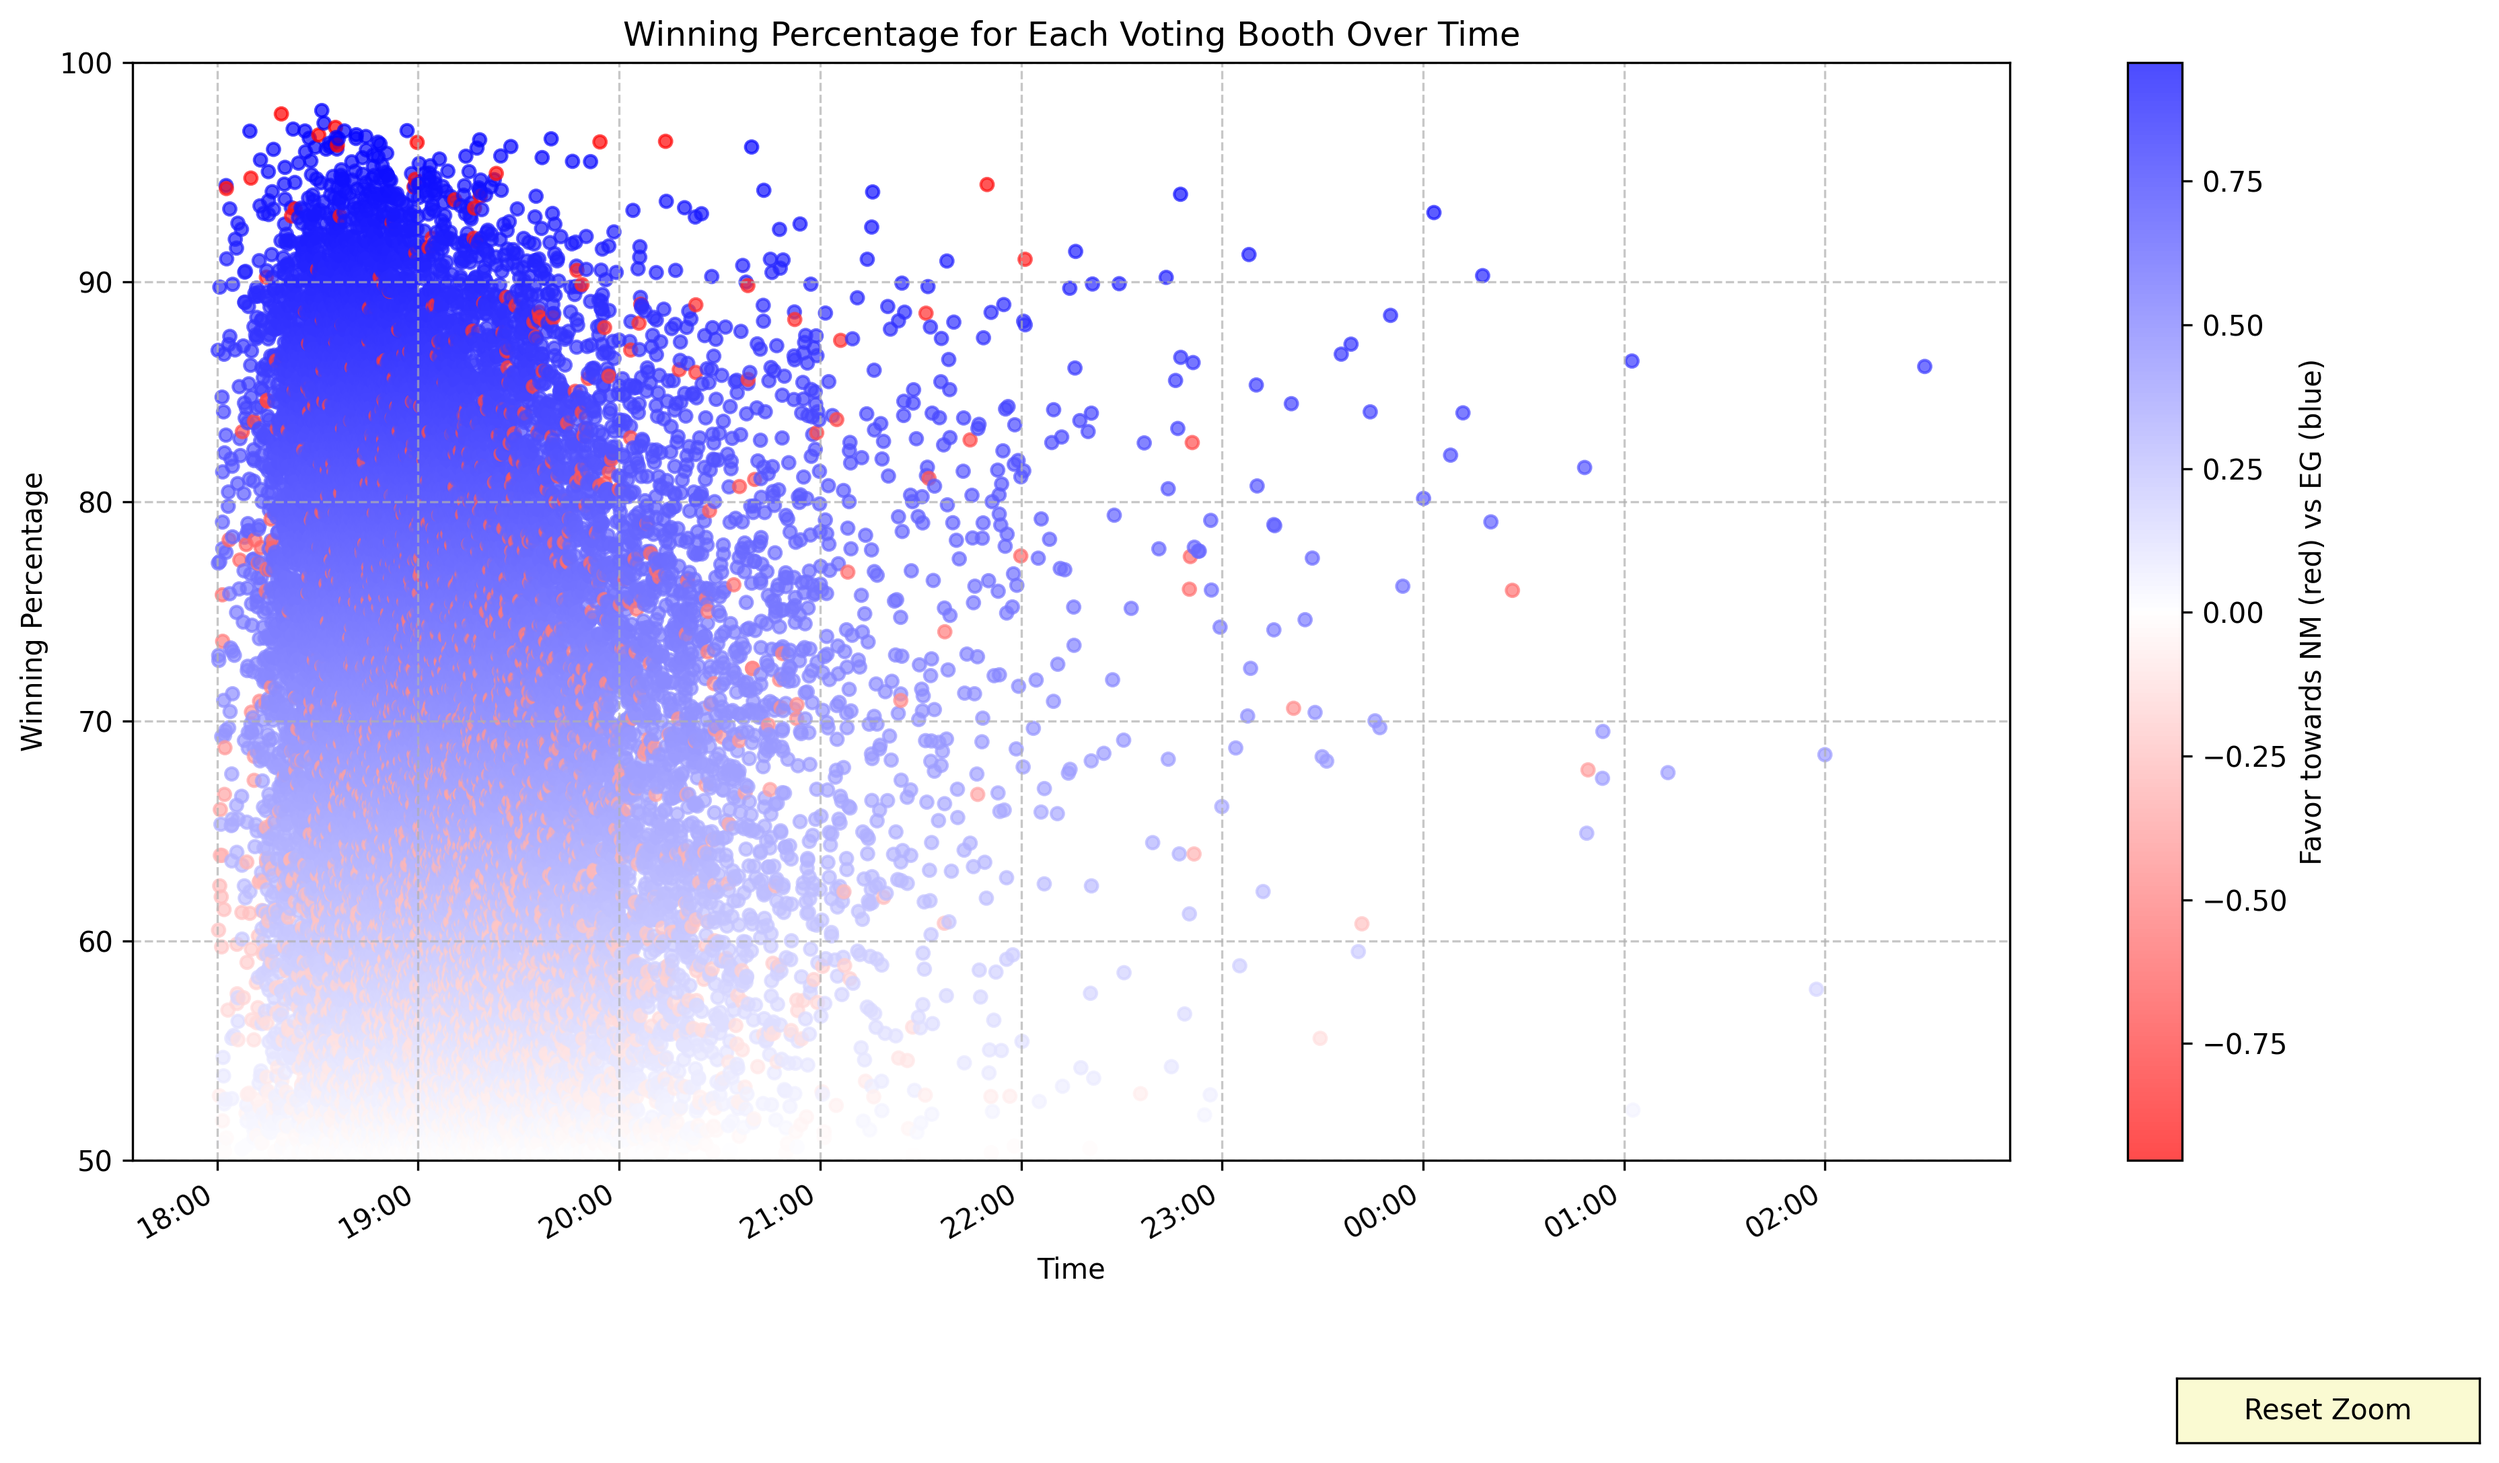
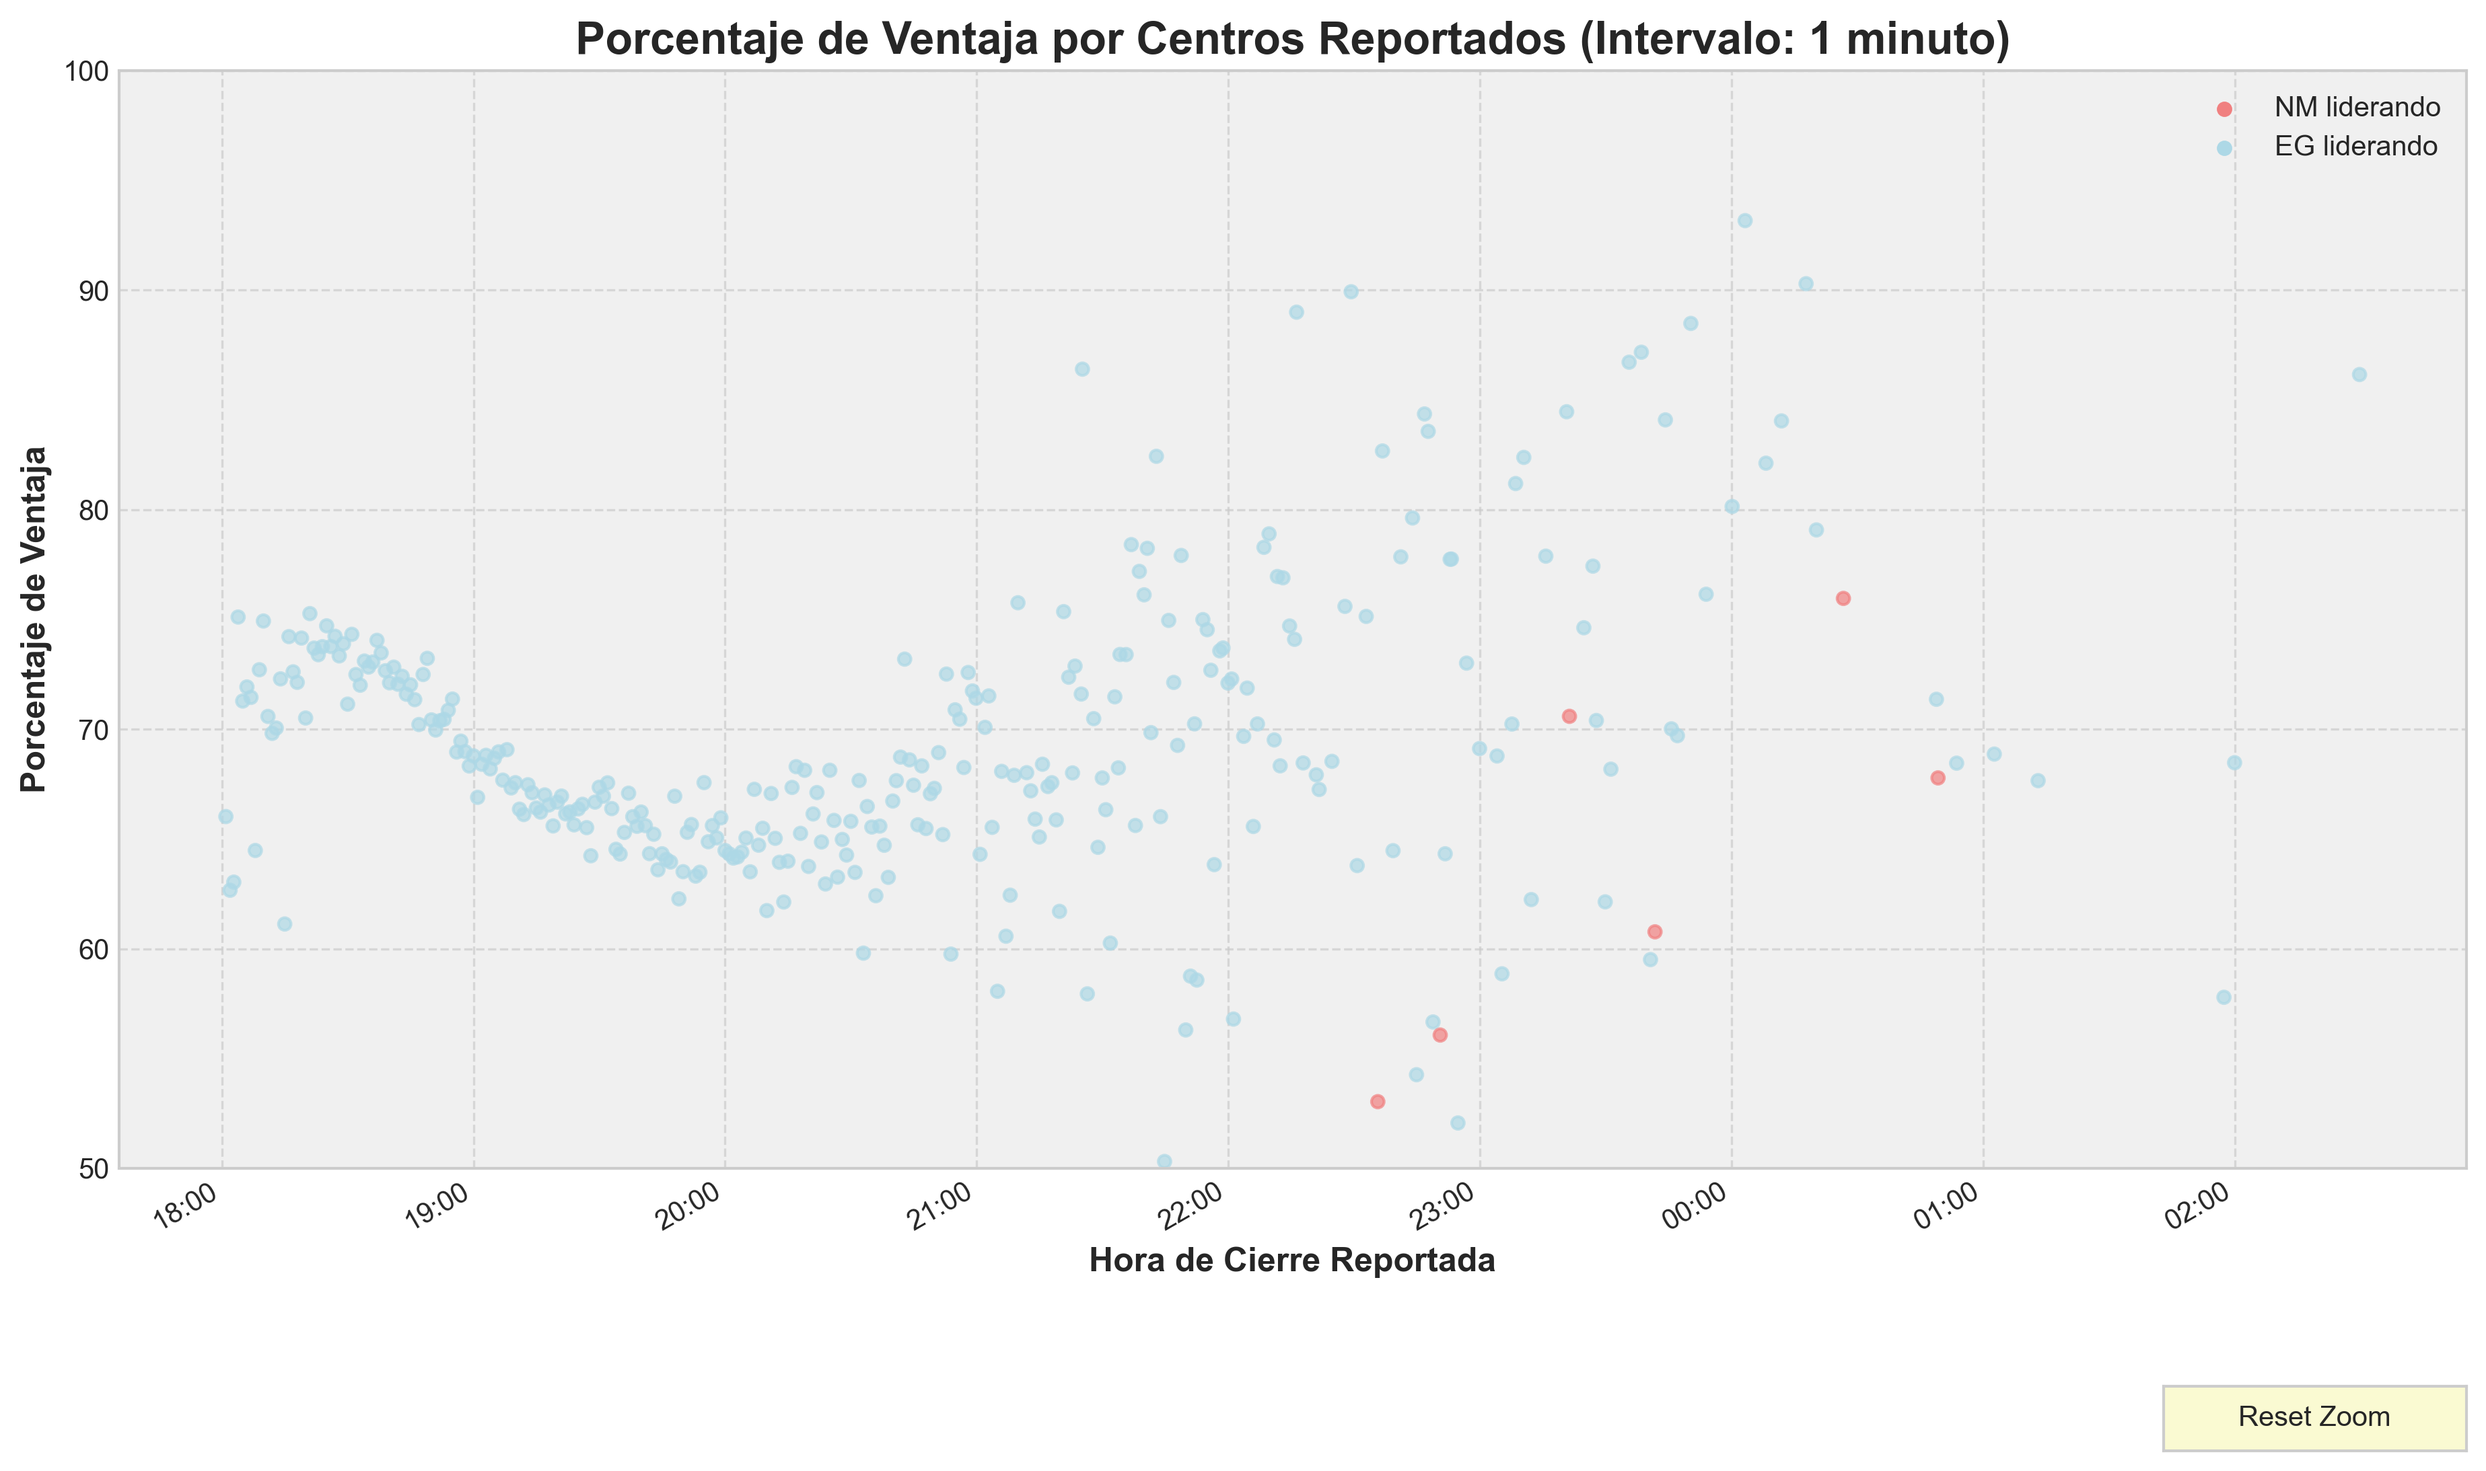
More i18n work and visual design

diff --git a/chart-time-mesa-scatter.py b/chart-time-mesa-scatter.py
@@ -3,6 +3,13 @@ import matplotlib.pyplot as plt
 from datetime import datetime, timedelta
 from matplotlib.widgets import Button
 import matplotlib.colors as mcolors
+import numpy as np
+
+# Language selector: 'en' for English, 'es' for Spanish
+language = 'es'
+
+# Set the style for a cleaner, more modern look
+plt.style.use('seaborn-v0_8-whitegrid')
 
 # Read the CSV file
 df = pd.read_csv('data/resultados-with-timestamps.csv')
@@ -26,29 +33,66 @@ def adjust_time(time_str):
 # Convert time_24 to datetime and adjust for next day if necessary
 df['adjusted_time'] = df['time_24'].apply(adjust_time)
 
-# Remove rows with NaT values
-df = df.dropna(subset=['adjusted_time'])
+# Remove rows with NaT values and sort by adjusted time
+df = df.dropna(subset=['adjusted_time']).sort_values('adjusted_time')
 
-# Sort the dataframe by adjusted time
-df = df.sort_values('adjusted_time')
+# Define the interval
+# Change interval to 10S, 15S, 1min, 1T, 5min, 15min, 1H, etc.
+# to accumulated more voting booths per interval
+interval = '1T'
+df['interval'] = df['adjusted_time'].dt.floor(interval)
 
-# Calculate total votes and winning percentage for each booth
-df['total_votes'] = df['EG'] + df['NM']
-df['winning_pct'] = df[['EG', 'NM']].max(axis=1) / df['total_votes'] * 100
-df['winner'] = df[['EG', 'NM']].idxmax(axis=1)
+# Function to convert interval to readable format (bilingual)
+def interval_to_text(interval):
+    if interval.endswith('min'):
+        value = int(interval[:-3])
+        if language == 'en':
+            return f"{value} minute" if value == 1 else f"{value} minutes"
+        else:
+            return f"{value} minuto" if value == 1 else f"{value} minutos"
+    
+    value = int(interval[:-1])
+    unit = interval[-1]
+    
+    if language == 'en':
+        if unit == 'S':
+            return f"{value} second" if value == 1 else f"{value} seconds"
+        elif unit == 'T':
+            return f"{value} minute" if value == 1 else f"{value} minutes"
+        elif unit == 'H':
+            return f"{value} hour" if value == 1 else f"{value} hours"
+    else:
+        if unit == 'S':
+            return f"{value} segundo" if value == 1 else f"{value} segundos"
+        elif unit == 'T':
+            return f"{value} minuto" if value == 1 else f"{value} minutos"
+        elif unit == 'H':
+            return f"{value} hora" if value == 1 else f"{value} horas"
+    
+    return interval
+    
+# Calculate cumulative votes for each 15-minute interval
+df['cumulative_EG'] = df.groupby('interval')['EG'].cumsum()
+df['cumulative_NM'] = df.groupby('interval')['NM'].cumsum()
 
-# Create a color map
-cmap = mcolors.LinearSegmentedColormap.from_list("", ["red", "white", "blue"])
+# Calculate total votes and winning percentage for each interval
+df['total_votes'] = df['cumulative_EG'] + df['cumulative_NM']
+df['winning_pct'] = df[['cumulative_EG', 'cumulative_NM']].max(axis=1) / df['total_votes'] * 100
+df['winner'] = df[['cumulative_EG', 'cumulative_NM']].idxmax(axis=1)
 
-# Calculate color values (-1 for full NM, 1 for full EG)
-df['color_value'] = (df['EG'] - df['NM']) / df['total_votes']
+# Determine the color based on the winner
+df['color'] = np.where(df['cumulative_EG'] > df['cumulative_NM'], 'lightblue', 'lightcoral')
+
+# Keep only the last row of each 15-minute interval
+df = df.groupby('interval').last().reset_index()
 
 # Create the plot
 fig, ax = plt.subplots(figsize=(15, 8))
+ax.set_facecolor('#f0f0f0')  # Set a light gray background only for the plot area
 
-# Plot the scatter plot
+# Plot the scatter plot with the new color scheme
 scatter = ax.scatter(df['adjusted_time'], df['winning_pct'], 
-                     c=df['color_value'], cmap=cmap, 
+                     c=df['color'], 
                      s=20, alpha=0.7)
 
 # Set the x-axis to show hours and minutes
@@ -58,17 +102,31 @@ ax.xaxis.set_major_locator(plt.matplotlib.dates.HourLocator(interval=1))
 # Rotate and align the tick labels so they look better
 fig.autofmt_xdate()
 
-# Add labels and title
-ax.set_xlabel('Time')
-ax.set_ylabel('Winning Percentage')
-ax.set_title('Winning Percentage for Each Voting Booth Over Time')
+# Convert interval to a more readable format for the title
+interval_text = interval_to_text(interval)
+
+# Set labels and title based on language
+if language == 'en':
+    ax.set_xlabel('Reported Closing Time', fontsize=12, fontweight='bold')
+    ax.set_ylabel('Winning Percentage', fontsize=12, fontweight='bold')
+    ax.set_title(f'Winning Percentage per Voting Booths Over Time (Interval: {interval_text})', 
+                 fontsize=16, fontweight='bold')
+    legend_labels = ['NM leading', 'EG leading']
+else:
+    ax.set_xlabel('Hora de Cierre Reportada', fontsize=12, fontweight='bold')
+    ax.set_ylabel('Porcentaje de Ventaja', fontsize=12, fontweight='bold')
+    ax.set_title(f'Porcentaje de Ventaja por Centros Reportados (Intervalo: {interval_text})', 
+                 fontsize=16, fontweight='bold')
+    legend_labels = ['NM liderando', 'EG liderando']
+
 
 # Set y-axis limits to 50-100%
 ax.set_ylim(50, 100)
 
-# Add a color bar
-cbar = plt.colorbar(scatter)
-cbar.set_label('Favor towards NM (red) vs EG (blue)')
+# Update legend
+ax.scatter([], [], c='lightcoral', label=legend_labels[0], s=20)
+ax.scatter([], [], c='lightblue', label=legend_labels[1], s=20)
+ax.legend()
 
 # Add a grid for better readability
 ax.grid(True, linestyle='--', alpha=0.7)

diff --git a/chart-time-vote-all.py b/chart-time-vote-all.py
@@ -33,17 +33,21 @@ df = df.dropna(subset=['adjusted_time'])
 # Sort the dataframe by adjusted time
 df = df.sort_values('adjusted_time')
 
-# Calculate cumulative votes
-df['EG_cumulative'] = df['EG'].cumsum()
-df['NM_cumulative'] = df['NM'].cumsum()
+# Calculate cumulative votes for all candidates
+candidates = ['EG', 'NM', 'LM', 'JABE', 'JOBR', 'AE', 'CF', 'DC', 'EM', 'BERA']
+for candidate in candidates:
+    df[f'{candidate}_cumulative'] = df[candidate].cumsum()
 
 # Create the plot
-fig, ax = plt.subplots(figsize=(12, 6))
-ax.set_facecolor('#f0f0f0')  # Set a light gray background only for the plot area
+fig, ax = plt.subplots(figsize=(14, 8))  # Increased figure size for better visibility
+ax.set_facecolor('#f0f0f0')
 
-# Plot cumulative votes
-ax.plot(df['adjusted_time'], df['EG_cumulative'] / 1e6, label='EG', color='#3498db', alpha=0.8, linewidth=2.5)
-ax.plot(df['adjusted_time'], df['NM_cumulative'] / 1e6, label='NM', color='#e74c3c', alpha=0.8, linewidth=2.5)
+# Color palette for the candidates
+colors = ['#3498db', '#e74c3c', '#2ecc71', '#f39c12', '#9b59b6', '#1abc9c', '#34495e', '#e67e22', '#95a5a6', '#d35400']
+
+# Plot cumulative votes for all candidates
+for candidate, color in zip(candidates, colors):
+    ax.plot(df['adjusted_time'], df[f'{candidate}_cumulative'] / 1e6, label=candidate, color=color, alpha=0.8, linewidth=2)
 
 # Set the x-axis to show hours and minutes
 ax.xaxis.set_major_formatter(plt.matplotlib.dates.DateFormatter('%H:%M'))
@@ -55,18 +59,19 @@ fig.autofmt_xdate()
 # Add labels and title
 ax.set_xlabel('Reported Closing Time', fontsize=12, fontweight='bold')
 ax.set_ylabel('Cumulative Votes (Millions)', fontsize=12, fontweight='bold')
-ax.set_title('Cumulative Votes for EG and NM Over Time', fontsize=16, fontweight='bold')
+ax.set_title('Cumulative Votes Over Time', fontsize=16, fontweight='bold')
 
 # En español
-# ax.set_xlabel('Hora de cierre reportada', fontsize=12, fontweight='bold')
+# ax.set_xlabel('Hora de Cierre Reportada', fontsize=12, fontweight='bold')
 # ax.set_ylabel('Votos Acumulados (Millones)', fontsize=12, fontweight='bold')
-# ax.set_title('Votos Acumulados para EG y NM por Hora', fontsize=16, fontweight='bold')
+# ax.set_title('Votos Acumulados por Hora', fontsize=16, fontweight='bold')
+
 
 # Format y-axis ticks to show millions
 ax.yaxis.set_major_formatter(plt.FuncFormatter(lambda x, p: f'{x:.1f}M'))
 
-# Add a legend
-ax.legend(loc='upper right', bbox_to_anchor=(1, 0.9), frameon=True, framealpha=0.9)
+# Adjust legend
+ax.legend(loc='center left', bbox_to_anchor=(1, 0.5), frameon=True, framealpha=0.9)
 
 # Add a grid for better readability
 ax.grid(True, linestyle='--', alpha=0.7)
